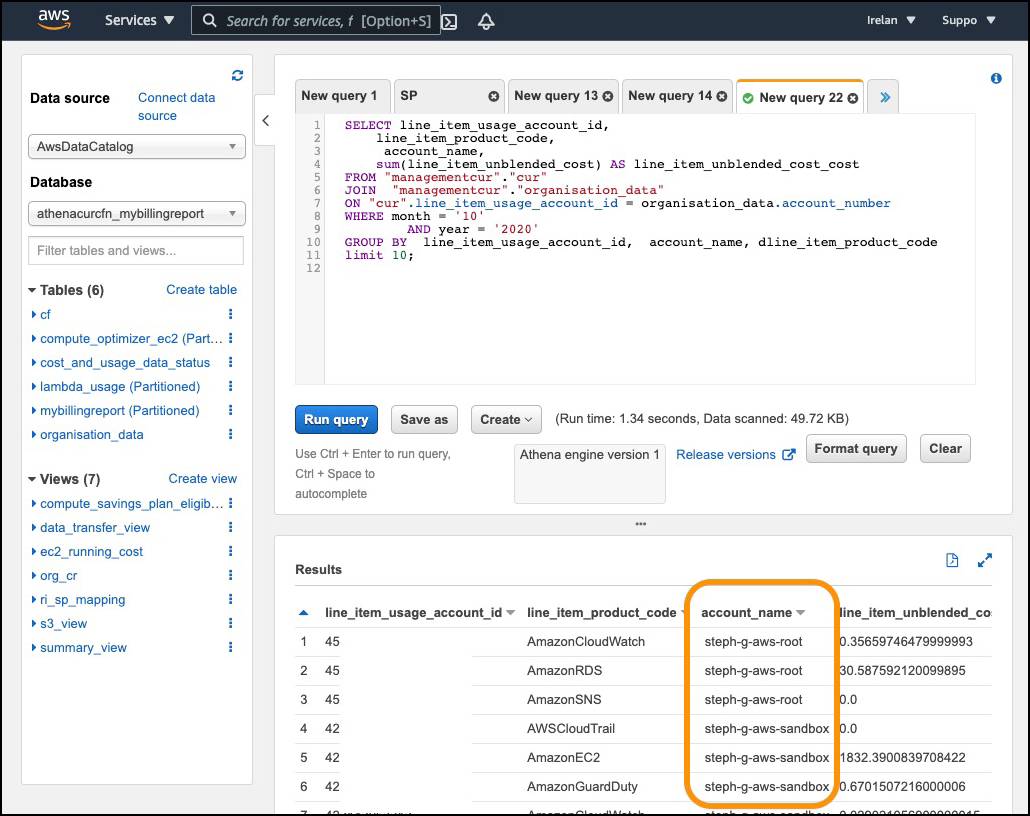
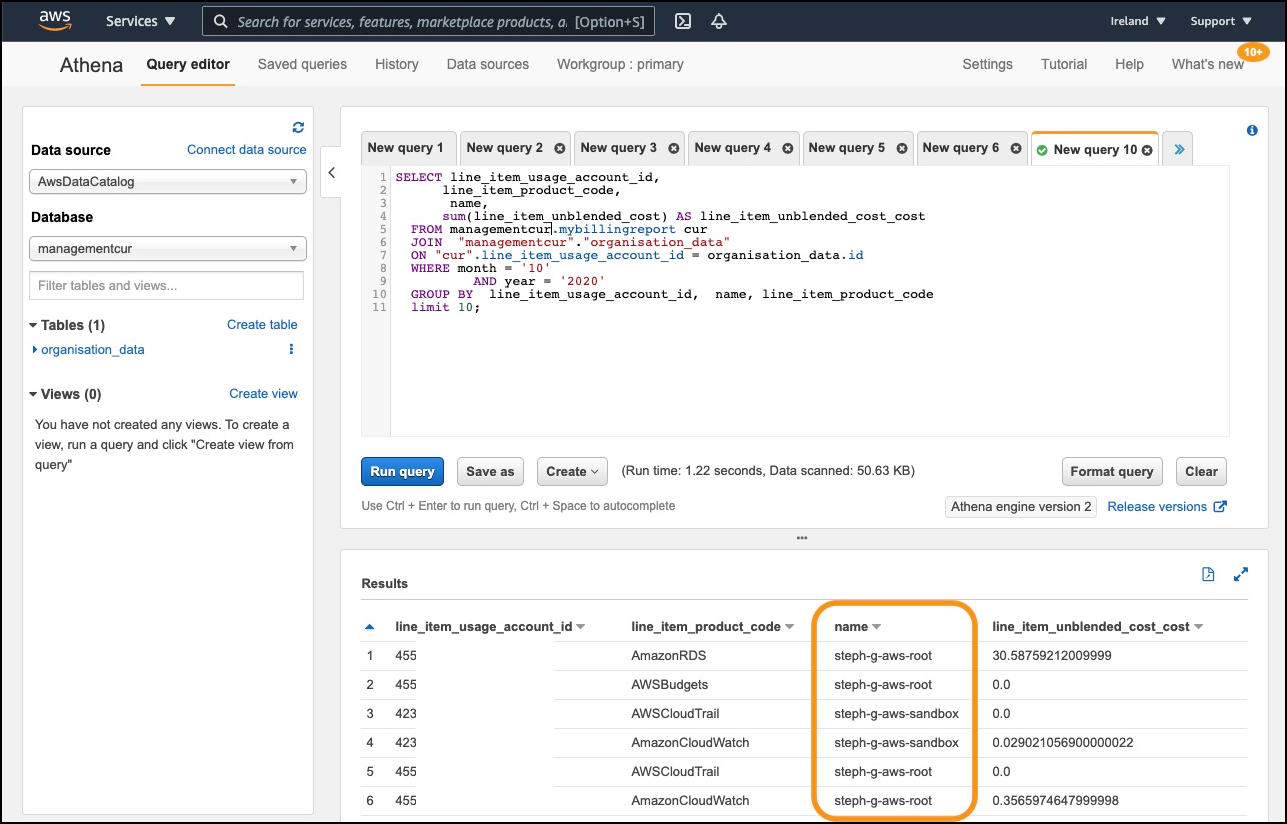
spelling and upated to json queries

diff --git a/content/Cost/300_Labs/300_Organization_Data_CUR_Connection/2_Create_Automation_Resources_Source.md b/content/Cost/300_Labs/300_Organization_Data_CUR_Connection/2_Create_Automation_Resources_Source.md
@@ -30,7 +30,7 @@ Create the On-Demand AWS Lambda function to get the AWS Organizations informatio
 
 ![Images/Create_Function_Name.png](/Cost/300_Organization_Data_CUR_Connection/Images/Create_Function_Name.png)
 
-5.	Copy and paste the following code into the **Function code** section and change (account id) to your **Management Account ID** and (Region) to the **Region** you are deploying in:
+5.	Copy and paste the following code into the **Function code** section and change (account id) to your **Management Account ID** on line 30 and (Region) to the **Region** on line 82 you are deploying in:
 
     <details>
     <summary> Click here to see the function code</summary>
@@ -137,9 +137,9 @@ Create the On-Demand AWS Lambda function to get the AWS Organizations informatio
 
             for page in iterator:
                 for ou in page['OrganizationalUnits']:
-                print(ou['Name'])
-                full_result[ou['Id']]=[]
-                full_result[ou['Id']].append(ou['Name'])
+                    print(ou['Name'])
+                    full_result[ou['Id']]=[]
+                    full_result[ou['Id']].append(ou['Name'])
 
 
             return full_result
@@ -154,8 +154,8 @@ Create the On-Demand AWS Lambda function to get the AWS Organizations informatio
 
             for page in iterator:
                 for acc in page['Accounts']:
-                print(acc['Id'])
-                full_result.append(acc['Id'])
+                    print(acc['Id'])
+                    full_result.append(acc['Id'])
 
 
             return full_result
@@ -166,7 +166,7 @@ Create the On-Demand AWS Lambda function to get the AWS Organizations informatio
 If you wish to deploy in the managment account here is the [link to Code](/Cost/300_Organization_Data_CUR_Connection/Code/org_data_ou_man_tags.py)
 
 
-6.	Edit **Basic settings** below:
+6.	Under Configuration -> General Configuration edit **Basic settings** below:
     -	Memory: **512MB**
     -	Timeout: **2min**
     -	Click **Save**

diff --git a/content/Cost/300_Labs/300_Organization_Data_CUR_Connection/3_Utilize_Organization_Data_Source.md b/content/Cost/300_Labs/300_Organization_Data_CUR_Connection/3_Utilize_Organization_Data_Source.md
@@ -72,14 +72,14 @@ We will be running an example query on how you can connect your CUR to this Orga
 
 		SELECT line_item_usage_account_id,
 			line_item_product_code,
-			 account_name,
+			 name,
 			sum(line_item_unblended_cost) AS line_item_unblended_cost_cost
 		FROM "managementcur"."cur" cur
 		JOIN  "managementcur"."organisation_data"
-		ON "cur".line_item_usage_account_id = organisation_data.account_number
+		ON "cur".line_item_usage_account_id = organisation_data.id
 		WHERE month = '10'
 				AND year = '2020'
-		GROUP BY  line_item_usage_account_id,  account_name, line_item_product_code
+		GROUP BY  line_item_usage_account_id,  name, line_item_product_code
 		limit 10;
 
 ![Images/Join.png](/Cost/300_Organization_Data_CUR_Connection/Images/Join.png)
@@ -98,7 +98,7 @@ If you would like to always have your Organizations data connected to your CUR t
 		SELECT *
 		FROM ("managementcur"."cur" cur
 		INNER JOIN "managementcur"."organisation_data"
-			ON ("cur"."line_item_usage_account_id" = "organisation_data"."account_number")) 
+			ON ("cur"."line_item_usage_account_id" = "organisation_data"."id")) 
 			
 
 

diff --git a/content/Cost/300_Labs/300_Organization_Data_CUR_Connection/1_Create_static_resources_Source.md b/content/Cost/300_Labs/300_Organization_Data_CUR_Connection/1_Create_static_resources_Source.md
@@ -170,7 +170,7 @@ We’ll create an IAM role and policy for the AWS Lambda function to access the 
 
 4.	Fill in the following
 * **Policy Name** LambdaOrgPolicy
-* **Description** Access to S3 for Lambda function to collect Orginization data
+* **Description** Access to S3 for Lambda function to collect organization data
 * Click **Create policy**
 
 ![Images/LambdaOrgPolicy.png](/Cost/300_Organization_Data_CUR_Connection/Images/LambdaOrgPolicy.png)
@@ -271,7 +271,7 @@ Now you have completed this section you have setup the resources that will enabl
 
 
 {{% notice note %}}
-Now you have completed this section there is a bonus part where you can check the Tags on your AWS Accounts. These are using in the lambda if you wish. 
+Now you have completed this section there is a bonus part where you can check the Tags on your AWS Accounts. These can be used in the lambda if you wish. 
 {{% /notice %}}
 
 {{%expand "Click here to see the Bonus Check AWS Organizations Tags" %}}

diff --git a/content/Cost/300_Labs/300_Organization_Data_CUR_Connection/5_Join_Cost_Intelligence_Dashboard.md b/content/Cost/300_Labs/300_Organization_Data_CUR_Connection/5_Join_Cost_Intelligence_Dashboard.md
@@ -67,5 +67,5 @@ You now have successfully utilized Organization mapping data on your Cost Intell
 {{% /notice %}}
 
 
-{{< prev_next_button link_prev_url="../4_visualize_organization_data_in_quicksight/" link_next_url="../6_bonus_org_tags/" />}}
+{{< prev_next_button link_prev_url="../4_visualize_organization_data_in_quicksight/" link_next_url="../6_teardown/" />}}
 
